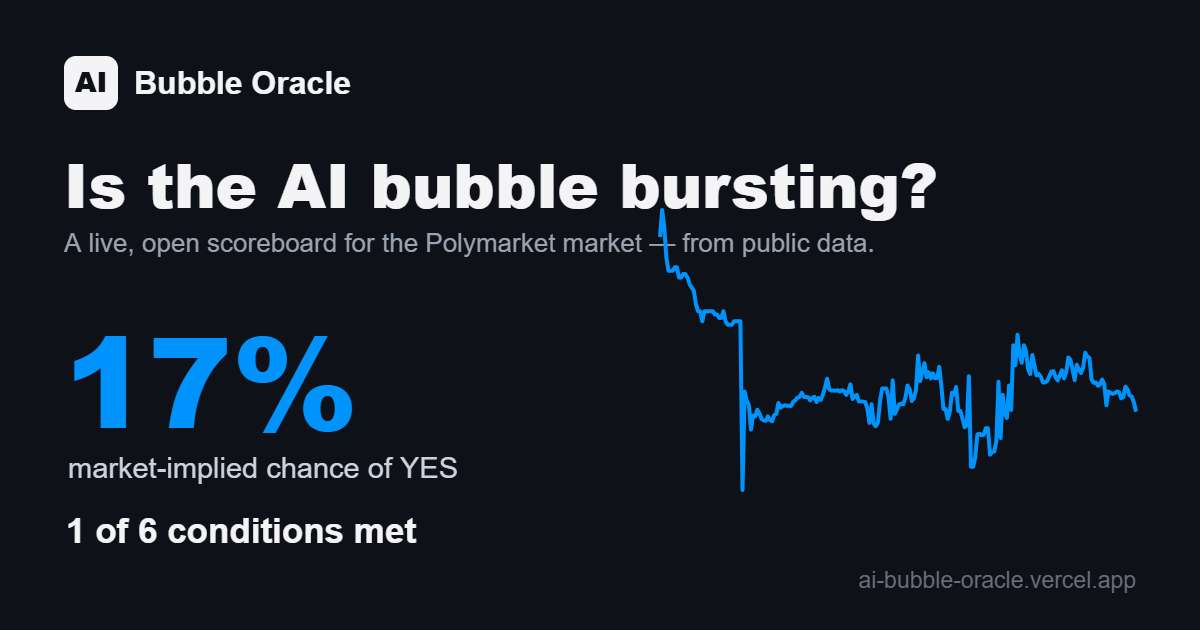
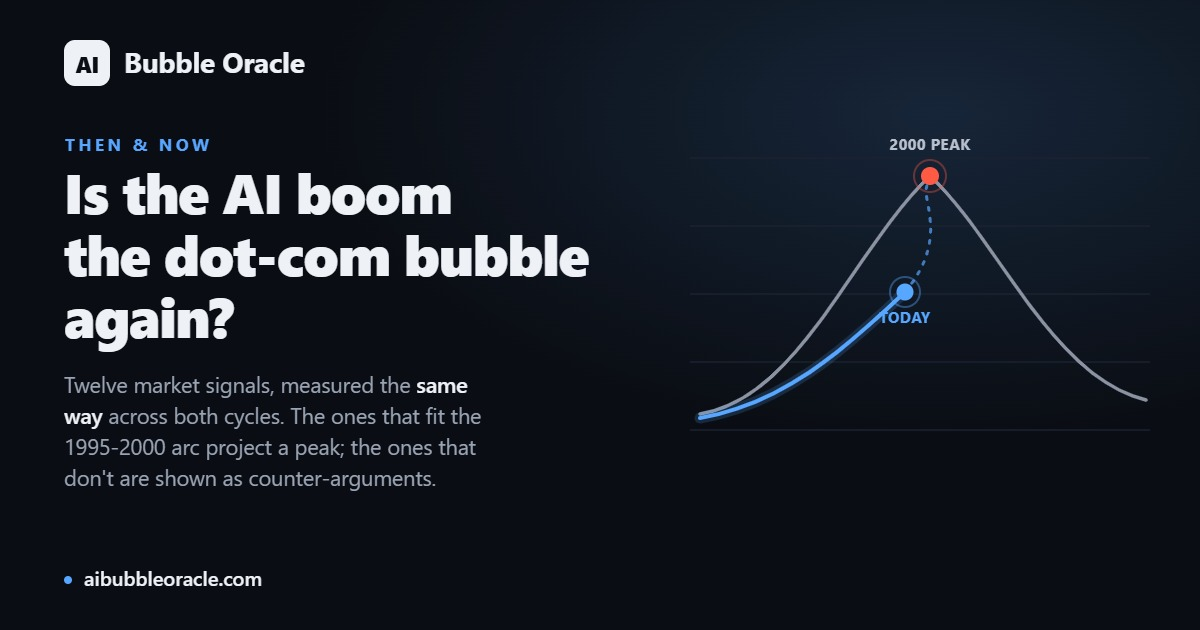
Social card: fix missing link preview on the Then & Now landing page
When aibubbleoracle.com is shared, X/LinkedIn/Slack crawlers hit / which
now redirects to thennow.html, and that page carried no Open Graph or
Twitter Card tags at all, so no preview rendered. (dashboard/datasources/
about had them; the landing page never got them when it took over the root.)

- Add the full og:/twitter: block to the Then & Now template, with
  landing-specific copy ("Is the AI boom the dot-com bubble again?") and
  og:url/canonical pointing at the root so social signal consolidates there.
- Replace og-image.jpg: the old card was the Polymarket scoreboard with
  baked-in stale numbers (17% / 1-of-6) and the pre-rename vercel.app domain
  in its footer. The new 1200x630 card matches the site's dark theme and
  shows the actual thesis: the dot-com rise-peak-fall with the 2000 peak
  marked, the AI line climbing to today, and a dashed projection toward the
  peak. Same filename, so all pages pick it up.
- Attribute every page's card to @user (twitter:site/creator) so the
  preview drives follows.
- Scrub em-dashes from the landing title/description while there.

verify-pages green.

diff --git a/oracle/thennow_template.html b/oracle/thennow_template.html
@@ -3,8 +3,24 @@
 <head>
 <meta charset="utf-8">
 <meta name="viewport" content="width=device-width, initial-scale=1">
-<title>AI Bubble Oracle — Then and Now: the dot-com clock for the AI boom</title>
-<meta name="description" content="A transparent, reproducible comparison of the AI boom to the dot-com bubble, across valuation, concentration, capex, and monetary signals — projecting when the analogy peaks.">
+<title>AI Bubble Oracle: Then and Now, the dot-com clock for the AI boom</title>
+<meta name="description" content="A transparent, reproducible comparison of the AI boom to the dot-com bubble, across valuation, concentration, capex, and monetary signals, projecting when the analogy peaks.">
+<meta property="og:type" content="website">
+<meta property="og:site_name" content="AI Bubble Oracle">
+<meta property="og:title" content="Is the AI boom the dot-com bubble again?">
+<meta property="og:description" content="A transparent, reproducible comparison of the AI boom to the dot-com bubble. Twelve market signals, measured the same way across both cycles, projecting when the analogy peaks.">
+<meta property="og:url" content="https://aibubbleoracle.com/">
+<link rel="canonical" href="https://aibubbleoracle.com/">
+<meta property="og:image" content="https://aibubbleoracle.com/og-image.jpg">
+<meta property="og:image:width" content="1200">
+<meta property="og:image:height" content="630">
+<meta property="og:image:alt" content="Then and Now: a dot-com bubble curve peaking in 2000, with the AI era climbing the same arc toward today.">
+<meta name="twitter:card" content="summary_large_image">
+<meta name="twitter:site" content="@BigBandaid2">
+<meta name="twitter:creator" content="@BigBandaid2">
+<meta name="twitter:title" content="Is the AI boom the dot-com bubble again?">
+<meta name="twitter:description" content="Twelve market signals, measured the same way across both cycles, projecting when the dot-com analogy peaks.">
+<meta name="twitter:image" content="https://aibubbleoracle.com/og-image.jpg">
 <style>
   :root {
     --bg: #0a0d13; --panel: #12161f; --panel2: #1b212c; --panel3: #222a37;

diff --git a/about.html b/about.html
@@ -15,6 +15,8 @@
 <meta property="og:image:width" content="1200">
 <meta property="og:image:height" content="630">
 <meta name="twitter:card" content="summary_large_image">
+<meta name="twitter:site" content="@BigBandaid2">
+<meta name="twitter:creator" content="@BigBandaid2">
 <meta name="twitter:title" content="About · AI Bubble Oracle">
 <meta name="twitter:description" content="Why AI Bubble Oracle exists: line the AI boom up against the dot-com clock, metric by metric, and see how close we are.">
 <meta name="twitter:image" content="https://aibubbleoracle.com/og-image.jpg">

diff --git a/oracle/dashboard_template.html b/oracle/dashboard_template.html
@@ -15,6 +15,8 @@
 <meta property="og:image:width" content="1200">
 <meta property="og:image:height" content="630">
 <meta name="twitter:card" content="summary_large_image">
+<meta name="twitter:site" content="@BigBandaid2">
+<meta name="twitter:creator" content="@BigBandaid2">
 <meta name="twitter:title" content="AI Bubble Oracle, is the AI bubble bursting?">
 <meta name="twitter:description" content="A live, open-source scoreboard for the Polymarket 'AI bubble burst in 2026?' market, every condition tracked from public data.">
 <meta name="twitter:image" content="https://aibubbleoracle.com/og-image.jpg">

diff --git a/oracle/datasources_template.html b/oracle/datasources_template.html
@@ -15,6 +15,8 @@
 <meta property="og:image:width" content="1200">
 <meta property="og:image:height" content="630">
 <meta name="twitter:card" content="summary_large_image">
+<meta name="twitter:site" content="@BigBandaid2">
+<meta name="twitter:creator" content="@BigBandaid2">
 <meta name="twitter:title" content="AI Bubble Oracle, Data Sources & pipeline">
 <meta name="twitter:description" content="Every data feed and processing step behind the AI bubble scoreboard, made inspectable.">
 <meta name="twitter:image" content="https://aibubbleoracle.com/og-image.jpg">